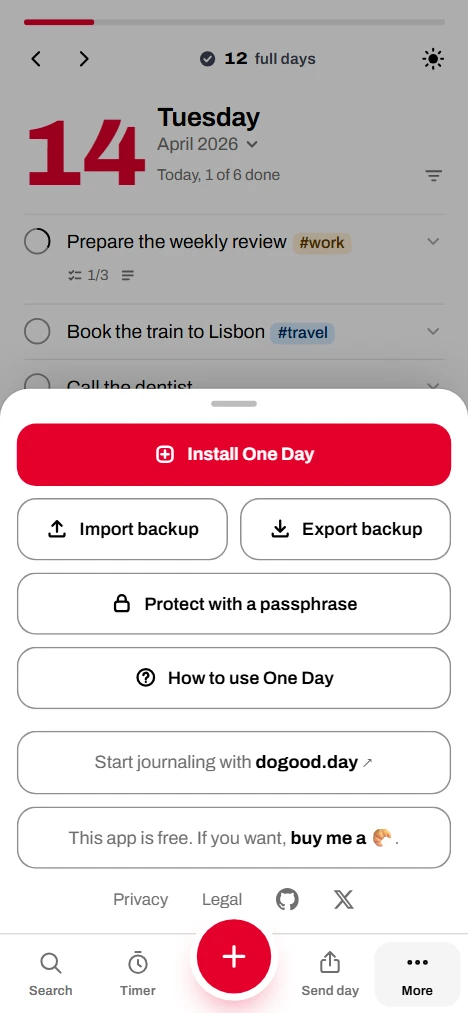
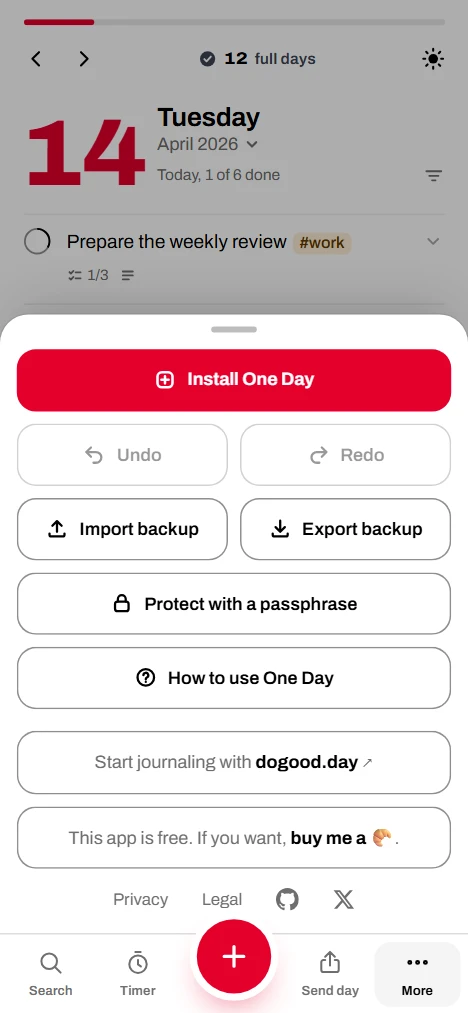
More keeps Undo and Redo, side by side, each saying what it would do
On a phone there are no keys, so once the message at the bottom had gone, a change could no longer be undone. More
now holds Undo on the left and Redo on the right, after the offer to install (still first, in red) and before the
backups. Each says under its word what it would do ("Moved 3 tasks to today"), taken from the message that offered to
undo it, and waits greyed while there is nothing for it. The words travel with the change from undo to redo and back.
In a folded bar (a narrow window, the floating one) the drawer has them too.

Guide: the Undo section says so, and the picture of More on a phone is retaken. Tests: the row's place and order, both
greyed at first, Undo then Redo named after a deletion; the drawer tests skip the row. CACHE v65.

Changed region(s): [[0.0, 0.306, 1.0, 0.4896]]

diff --git a/public/app.js b/public/app.js
@@ -459,7 +459,8 @@ try {
   function applySnap(e, into) {
     stopSeal();
     const keys = Object.keys(e.days);
-    into.push({ ...snap(keys), cur: e.cur });
+    // what it says it does goes with it, from undo to redo and back
+    into.push({ ...snap(keys), cur: e.cur, label: e.label });
     const was = S.rules,
       tk = todayKey();
     if (e.rules) S.rules = e.rules;
@@ -639,6 +640,8 @@ try {
     send: '<svg viewBox="0 0 16 16" aria-hidden="true"><path d="M8 9.75V2.25M5.25 5 8 2.25 10.75 5M5.5 7H4.5c-.83 0-1.5.67-1.5 1.5v4c0 .83.67 1.5 1.5 1.5h7c.83 0 1.5-.67 1.5-1.5v-4c0-.83-.67-1.5-1.5-1.5h-1"/></svg>',
     float:
       '<svg viewBox="0 0 16 16" aria-hidden="true"><rect x="2" y="3.2" width="12" height="9.6" rx="2"/><rect x="8" y="7.2" width="4" height="3.6" rx=".8" fill="currentColor" stroke="none"/></svg>',
+    undo: '<svg viewBox="0 0 16 16" aria-hidden="true"><path d="M5.75 3.25 2.5 6.5l3.25 3.25"/><path d="M2.75 6.5h6.5a3.75 3.75 0 0 1 0 7.5H7.5"/></svg>',
+    redo: '<svg viewBox="0 0 16 16" aria-hidden="true"><path d="m10.25 3.25 3.25 3.25-3.25 3.25"/><path d="M13.25 6.5h-6.5a3.75 3.75 0 0 0 0 7.5H8.5"/></svg>',
     down: '<svg viewBox="0 0 16 16" aria-hidden="true"><path d="M8 2.5v7.5M4.75 7 8 10.25 11.25 7M2.75 11.5v.75c0 .69.56 1.25 1.25 1.25h8c.69 0 1.25-.56 1.25-1.25v-.75"/></svg>',
     up: '<svg viewBox="0 0 16 16" aria-hidden="true"><path d="M8 10.25V2.75M4.75 6 8 2.75 11.25 6M2.75 11.5v.75c0 .69.56 1.25 1.25 1.25h8c.69 0 1.25-.56 1.25-1.25v-.75"/></svg>',
     lock: '<svg viewBox="0 0 16 16" aria-hidden="true"><rect x="3.25" y="7" width="9.5" height="6.75" rx="1.75"/><path d="M5.25 7V5.25a2.75 2.75 0 0 1 5.5 0V7"/></svg>',
@@ -6496,6 +6499,7 @@ try {
       // where the bar is folded, what it let go of comes first (the floating window has its own way back)
       held = barFolded(),
       dark = themeNow() === 'dark';
+    // the order: what the bar let go of, the offer to install (red, first on a phone), Undo and Redo, then the rest
     $.moreList.innerHTML =
       (held
         ? `<div class="sbk"><button type="button" class="sbk-b" data-act="search">${IC.search}<span>Search</span></button>` +
@@ -6505,6 +6509,7 @@ try {
           '</div>'
         : '') +
       (insHow() ? `<button type="button" class="sins" data-act="install">${IC.install}<span>Install One Day</span></button>` : '') +
+      undoBtns() +
       `<div class="sbk"><button type="button" class="sbk-b" data-act="import">${IC.up}<span>Import backup</span></button>` +
       `<button type="button" class="sbk-b" data-act="export">${IC.down}<span>${canTop ? 'Export backup' : 'Copy backup'}</span></button></div>` +
       (CAN_LOCK ? lockBtns() : '') +
@@ -6524,8 +6529,15 @@ try {
     syncScrim();
     $.mbMore.setAttribute('aria-expanded', 'true');
     if (held) $.kb.setAttribute('aria-expanded', 'true');
-    const first = $.moreList.querySelector('button');
+    const first = $.moreList.querySelector('button:not(:disabled)');
     if (first) first.focus({ preventScroll: true });
+  }
+  // Undo on the left, Redo on the right, first in the drawer: on a phone, with no keys, the way to undo once the
+  // message at the bottom has gone. Each says what it would do, and waits greyed while there is nothing for it.
+  function undoBtns() {
+    const b = (act, ic, word, e) =>
+      `<button type="button" class="sbk-b sud" data-act="${act}"${!e ? ' disabled' : e.label ? ` aria-label="${esc(word + ': ' + e.label)}"` : ''}>${ic}<span>${word}${e && e.label ? `<small>${esc(e.label)}</small>` : ''}</span></button>`;
+    return `<div class="sbk sun">${b('undo', IC.undo, 'Undo', UN[UN.length - 1])}${b('redo', IC.redo, 'Redo', RE[RE.length - 1])}</div>`;
   }
   function closeMore(from) {
     if (!moreOpen) return;
@@ -6547,7 +6559,7 @@ try {
       return;
     }
     const a = e.target.closest('[data-act]');
-    if (!a) return;
+    if (!a || a.disabled) return;
     closeMore();
     // the floating window takes the card at once: the drawer is shut before it goes
     if (a.dataset.act === 'float') for (const el of [$.more, $.scrim]) el.getAnimations().forEach(x => x.finish());
@@ -6750,6 +6762,9 @@ try {
     toastAct = null;
   function toast(msg, act, ms = 4200) {
     const was = $.toast.classList.contains('on');
+    // the message that offers to undo a change names it: Undo in More says it again once the message has gone
+    const top = UN[UN.length - 1];
+    if (act === 'undo' && top && !top.label) top.label = msg;
     $.toastTxt.textContent = msg;
     toastAct = act || null;
     $.undo.hidden = !act;
@@ -8735,6 +8750,8 @@ try {
     else if (a === 'send') sendDay();
     else if (a === 'theme') toggleTheme();
     else if (a === 'float') float();
+    else if (a === 'undo') undo();
+    else if (a === 'redo') redo();
   }
   if (locked) showLock();
 

diff --git a/public/guide/index.html b/public/guide/index.html
@@ -273,7 +273,8 @@
               Everything can be undone. After a change such as deleting or moving a task, a message at the bottom of the
               screen offers <b>Undo</b>. <kbd>Ctrl</kbd> <kbd>Z</kbd> (<kbd>⌘</kbd> <kbd>Z</kbd> on a Mac) goes back up to 80
               steps, for as long as One Day stays open, and <kbd>Ctrl</kbd> <kbd>Y</kbd> or <kbd>⌘</kbd> <kbd>⇧</kbd>
-              <kbd>Z</kbd> redoes.
+              <kbd>Z</kbd> redoes. Without keys, on a phone, <b>More</b> keeps <b>Undo</b> and <b>Redo</b> at its top
+              while there is something to take back, each saying what it would do.
             </p>
           </section>
         </section>
@@ -594,8 +595,8 @@ Nothing is sent anywhere: the tasks stay in the link until I open it and confirm
                   <figcaption>Search, as a drawer</figcaption>
                 </figure>
                 <figure class="phone">
-                  <img class="l" src="shots/phone-more-light.webp" width="468" height="1013" alt="On a phone, More: Install One Day in red, Import backup, Export backup, Protect with a passphrase, then the links." decoding="async" loading="lazy" />
-                  <img class="d" src="shots/phone-more-dark.webp" width="468" height="1013" alt="On a phone, More: Install One Day in red, Import backup, Export backup, Protect with a passphrase, then the links." decoding="async" loading="lazy" />
+                  <img class="l" src="shots/phone-more-light.webp" width="468" height="1013" alt="On a phone, More: Install One Day in red, Undo and Redo greyed while there is nothing to take back, Import backup, Export backup, Protect with a passphrase, How to use One Day, then the links." decoding="async" loading="lazy" />
+                  <img class="d" src="shots/phone-more-dark.webp" width="468" height="1013" alt="On a phone, More: Install One Day in red, Undo and Redo greyed while there is nothing to take back, Import backup, Export backup, Protect with a passphrase, How to use One Day, then the links." decoding="async" loading="lazy" />
                   <figcaption>More</figcaption>
                 </figure>
               </div>

diff --git a/public/app.css b/public/app.css
@@ -3237,6 +3237,44 @@ mark {
   text-wrap: balance;
   line-height: 1.2;
 }
+/* Undo on the left, Redo on the right, first in the drawer: each says, under its word, what it would do (two lines
+   at most), and waits greyed while there is nothing for it */
+.sun {
+  grid-template-columns: minmax(0, 1fr) minmax(0, 1fr);
+}
+.sud {
+  min-width: 0;
+  height: auto;
+  min-height: 52px;
+  padding: 8px 12px;
+}
+.sbk-b.sud span {
+  display: flex;
+  flex-direction: column;
+  align-items: flex-start;
+  min-width: 0;
+  text-align: left;
+}
+.sud small {
+  display: -webkit-box;
+  -webkit-box-orient: vertical;
+  -webkit-line-clamp: 2;
+  line-clamp: 2;
+  max-width: 100%;
+  overflow: hidden;
+  font-size: 12.5px;
+  font-weight: 500;
+  line-height: 1.25;
+  color: var(--mute);
+}
+.sud:disabled {
+  opacity: 0.4;
+  cursor: default;
+}
+.sud:disabled:active {
+  background: none;
+  transform: none;
+}
 /* the lock's actions under the backups: one is a button like theirs; several share one outline, a hairline between
    them, and a press lights the row instead of shrinking it */
 .slk {

diff --git a/public/sw.js b/public/sw.js
@@ -1,6 +1,6 @@
 /* One Day service worker: makes the app open instantly and work offline, even from a cold start.
    It only caches the app's own files, and its guide. It never sees your tasks, which live in localStorage. */
-const CACHE = 'one-day-v64';
+const CACHE = 'one-day-v65';
 const SHELL = [
   './',
   './app.css',
